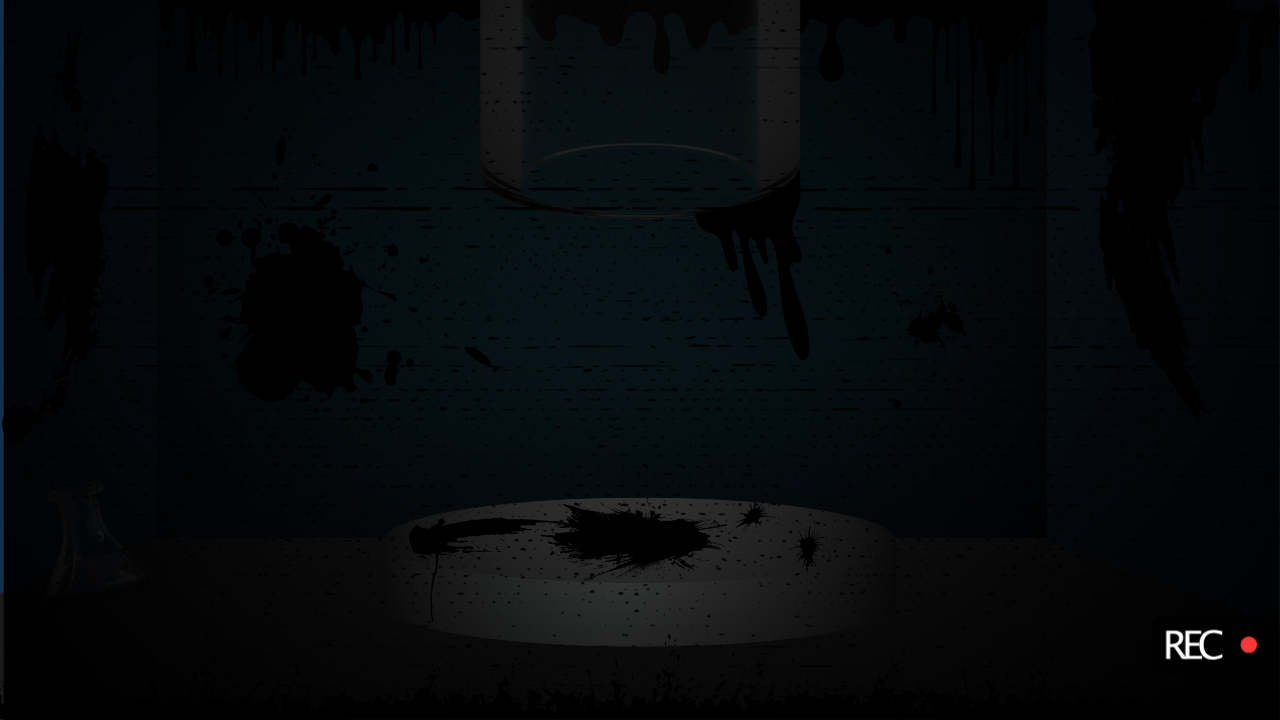
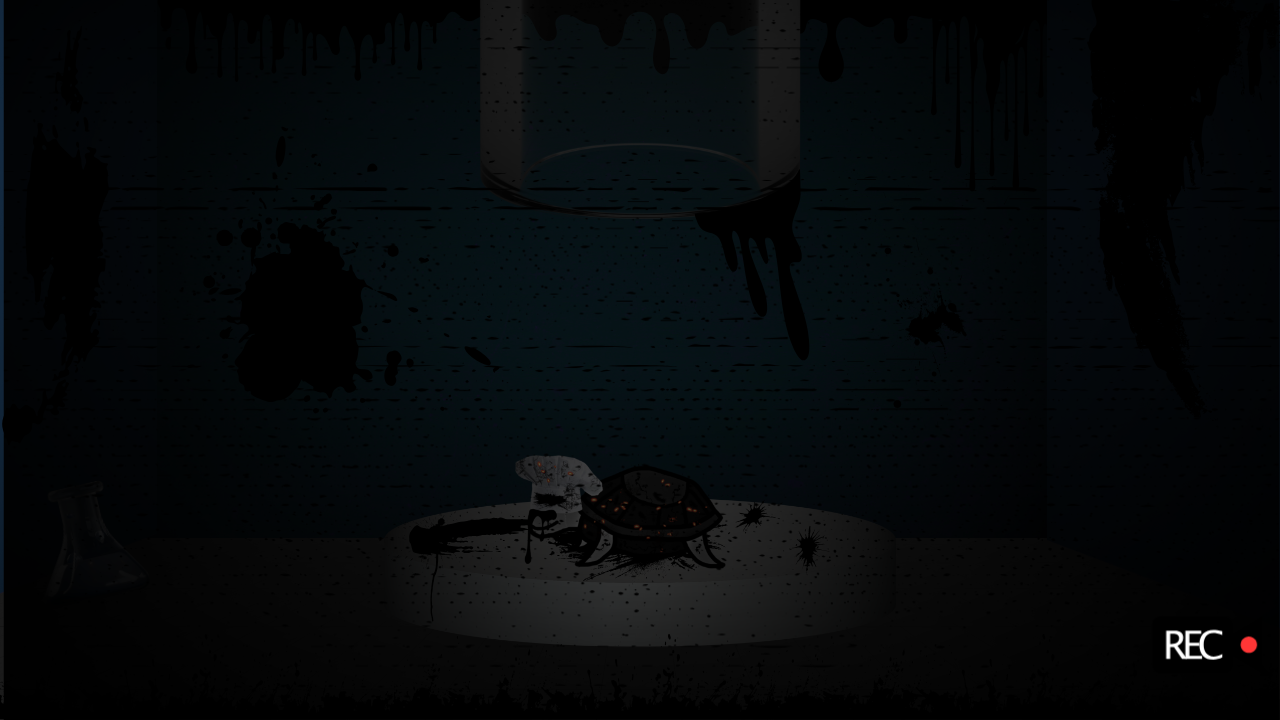
Fix cryostasis images

Changed region(s): [[0.4062, 0.6111, 0.5625, 0.7944], [0.4375, 0.7639, 0.4688, 0.7944]]

diff --git a/assets/copy.py b/assets/copy.py
@@ -35,4 +35,4 @@ if __name__ == "__main__":
     if len(sys.argv) != 2:
         print("Usage: python create_copies.py <directory-path>")
     else:
-        create_copies(sys.argv[1])
+        create_copies("assets/temp")
